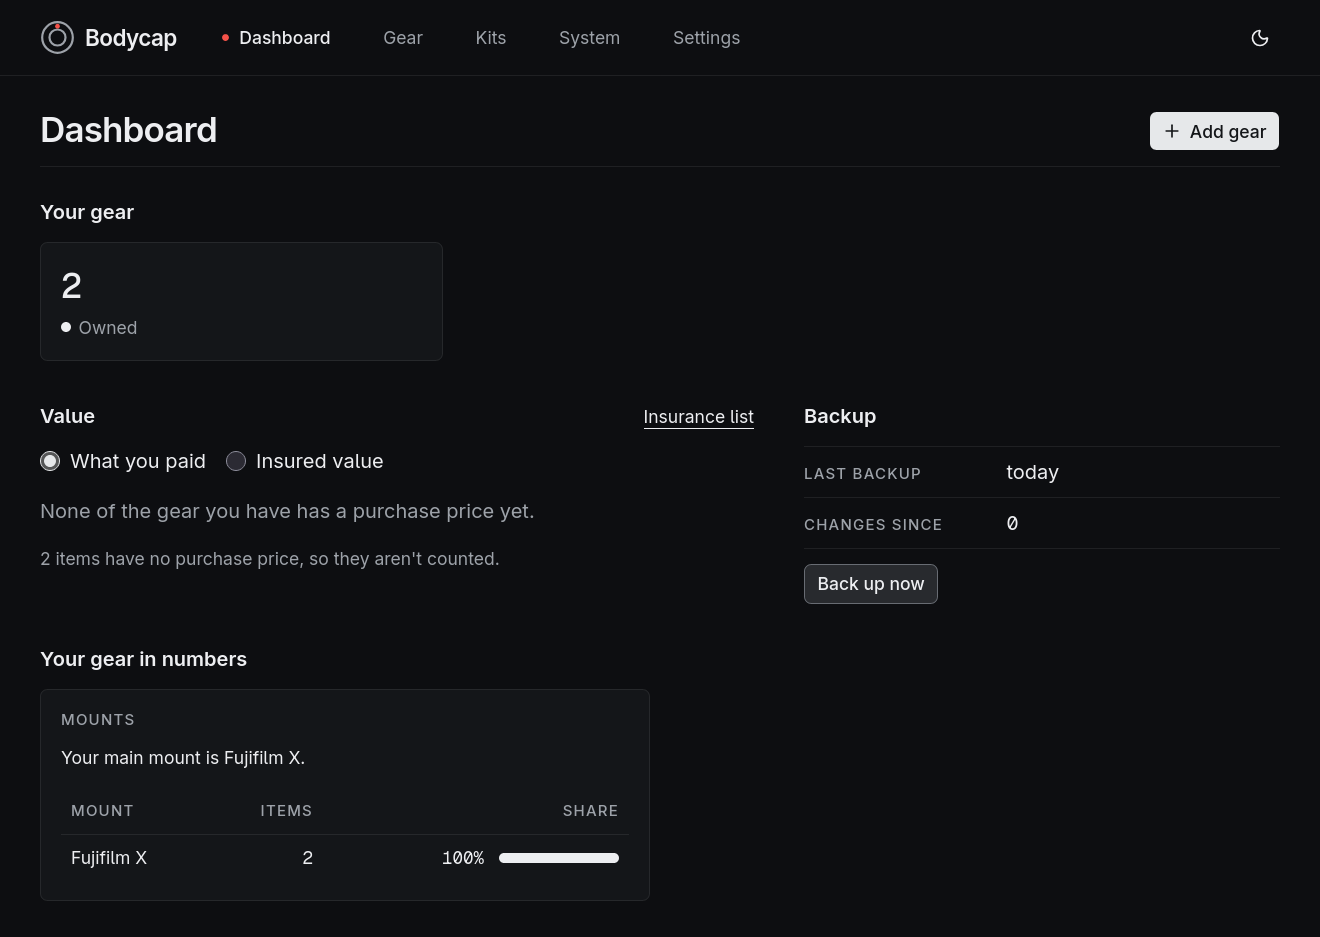
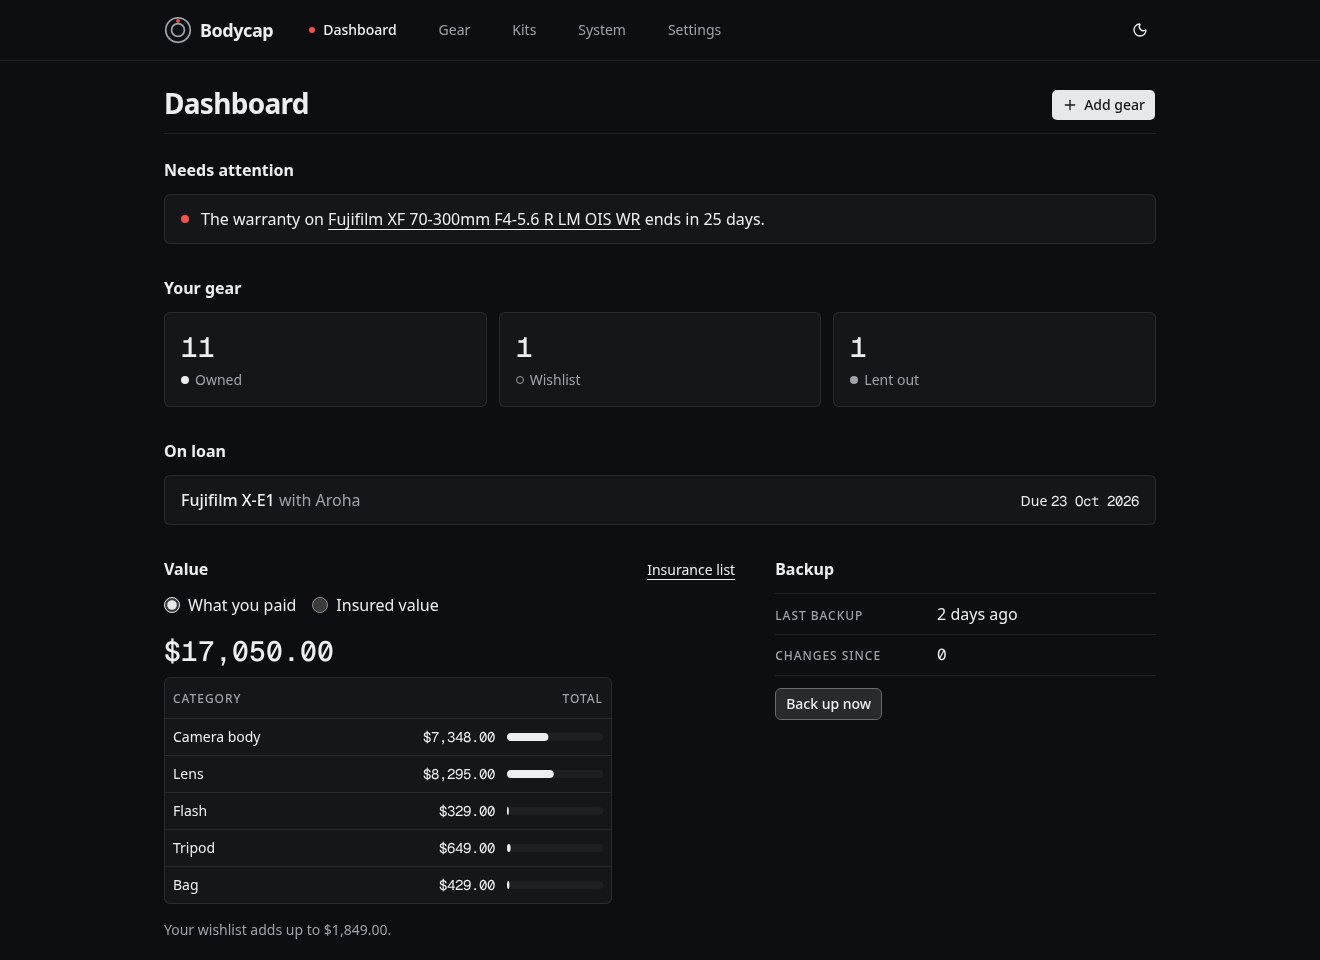
docs: retake the README screenshots with fuller sample gear
The dashboard and gear list now show a dozen made-up items, with prices, a loan, and warranties, instead of two.

diff --git a/README.md b/README.md
@@ -5,7 +5,7 @@ it keeps everything in your own browser, works offline, and never needs an accou
 
 **Open it at <https://xe1af35.github.io/bodycap/>**
 
-![The Bodycap dashboard, with a gear count, its value, backup status, and a breakdown by lens mount](docs/screenshots/dashboard.png)
+![The Bodycap dashboard, with a warranty running out, gear counts, a camera on loan, what the gear is worth by category, and backup status](docs/screenshots/dashboard.png)
 
 ## What it does
 
